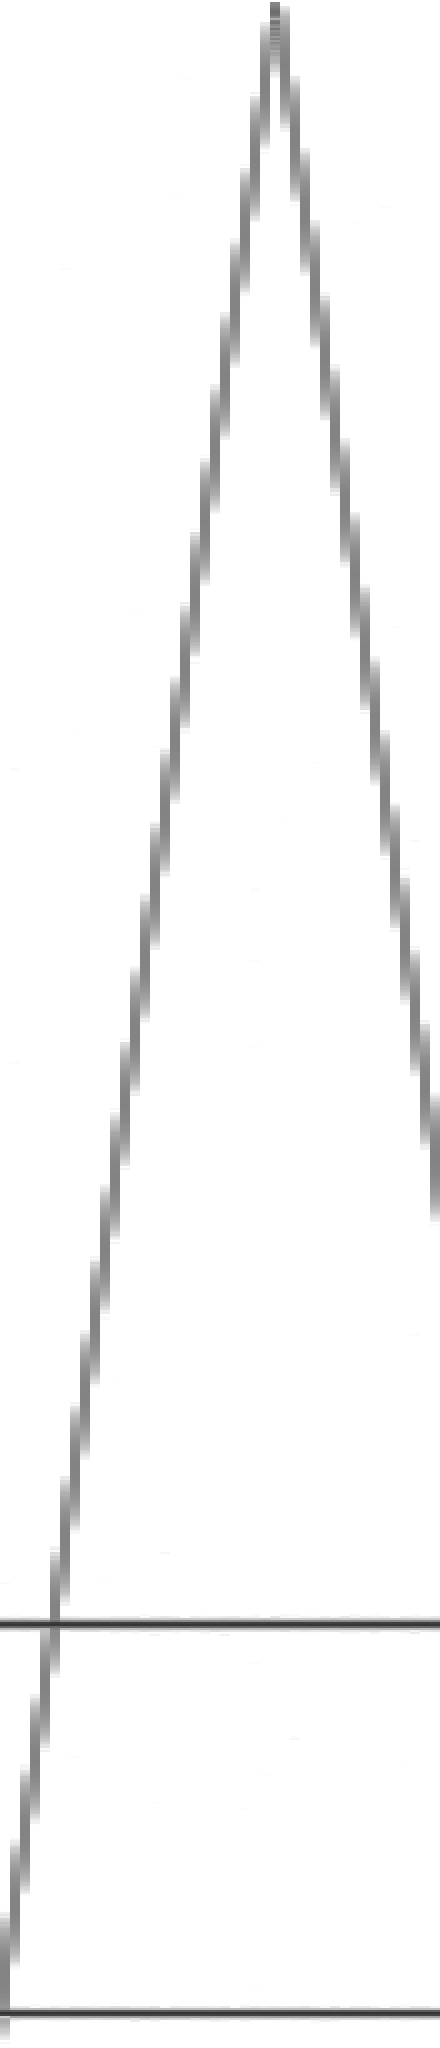
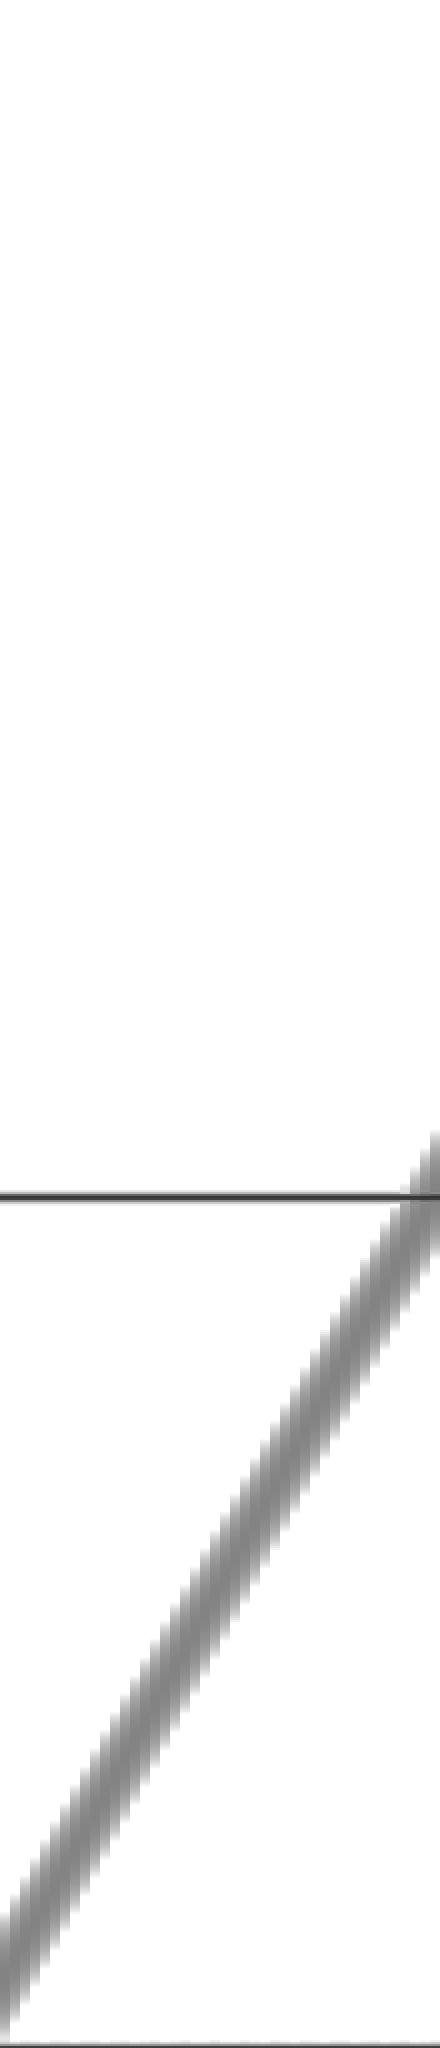
fix

Changed region(s): [[0.0, 0.0, 1.0, 1.0]]

diff --git a/src/main.rs b/src/main.rs
@@ -3,72 +3,81 @@ use piet_common::*;
 use realfft::RealFftPlanner;
 use rustfft::num_complex::{Complex, ComplexFloat};
 mod windows;
-use rand;
+// use rand;
 
 fn main() {
     let test_signal = generate_test_data();
     println!("Test signal generated with {} samples", test_signal.len());
 
-    let hann = windows::hann(2048);
-    let hann_dt = windows::timederivhann(2048);
-    let hann_t = windows::timeramphann(2048);
+    let length = 2048;
+    let step = 256;
+
+    let hann = windows::hann(length);
+    let hann_dt = windows::timederivhann(length as isize);
+    let hann_t = windows::timeramphann(length as isize);
 
     let mut piet = Device::new().unwrap();
-    let mut img = piet.bitmap_target(44 * 10, 2048, 1.0).unwrap();
+    let mut img = piet.bitmap_target(44 * 10, length, 1.0).unwrap();
     let mut piet = Device::new().unwrap();
-    let mut img2 = piet.bitmap_target(44 * 10, 2048, 1.0).unwrap();
+    let mut img2 = piet.bitmap_target(44 * 10, length, 1.0).unwrap();
     {
         let mut ctx = img.render_context();
-        let rect = Rect::new(0.0, 0.0, 44.0 * 10.0, 2048.0);
+        let rect = Rect::new(0.0, 0.0, 44.0 * 10.0, length as f64);
         ctx.fill(rect, &Color::rgba8(255, 255, 255, 255));
         let mut ctx = img2.render_context();
-        let rect = Rect::new(0.0, 0.0, 44.0 * 10.0, 2048.0);
+        let rect = Rect::new(0.0, 0.0, 44.0 * 10.0, length as f64);
         ctx.fill(rect, &Color::rgba8(255, 255, 255, 255));
     }
 
-    for i in 0..44 {
+    for i in 0..150 {
         let mut ctx = img.render_context();
         let mut ctx2 = img2.render_context();
-        let sub_signal = test_signal[i * 1024..i * 1024 + 2048].to_vec();
-        let mut hanned = vec![0.0; 2048];
-        let mut hanned_dt = vec![0.0; 2048];
-        let mut hanned_t = vec![0.0; 2048];
-        for j in 0..2048 {
+        let sub_signal = test_signal[i * step..i * step + length].to_vec();
+        let mut hanned = vec![0.0; length];
+        let mut hanned_dt = vec![0.0; length];
+        let mut hanned_t = vec![0.0; length];
+        for j in 0..length {
             hanned[j] = (sub_signal[j] * hann[j]) as f32;
             hanned_dt[j] = (sub_signal[j] * hann_dt[j]) as f32;
             hanned_t[j] = (sub_signal[j] * hann_t[j]) as f32;
         }
         let mut real_planner = RealFftPlanner::<f32>::new();
-        let r2c = real_planner.plan_fft_forward(2048);
+        let r2c = real_planner.plan_fft_forward(length);
         let mut spectrum = r2c.make_output_vec();
         r2c.process(&mut hanned, &mut spectrum);
         let fft_x = spectrum.clone();
-        let mag = fft_x.iter().map(|i| i.norm() / 2048.0).collect::<Vec<_>>();
+        let mag = fft_x
+            .iter()
+            .map(|i| i.norm() / length as f32)
+            .collect::<Vec<_>>();
         let magsqrd: Vec<_> = fft_x.iter().map(|i| i.norm_sqr()).collect();
         r2c.process(&mut hanned_dt, &mut spectrum).unwrap();
         let fft_xdt = spectrum.clone();
         r2c.process(&mut hanned_t, &mut spectrum).unwrap();
         let fft_xt = spectrum.clone();
-        for j in 0..1025 {
+        for j in 0..(length / 2 + 1) {
             let rect = Rect::new(
                 i as f64 * 10.0,
-                (1025 - j) as f64 * 2.0,
+                ((length / 2 + 1) - j) as f64 * 2.0,
                 i as f64 * 10.0 + 10.0,
-                (1025 - j) as f64 * 2.0 + 2.0,
+                ((length / 2 + 1) - j) as f64 * 2.0 + 2.0,
             );
             let c = ((mag[j].log10() * 20.0 + 60.0) * 255.0 / 60.0) as u8;
             ctx2.fill(rect, &Color::rgba8(0, 0, 0, c));
             if magsqrd[j] > 0.0 {
-                let freq_base = j as f32 * 24000.0 / 1025.0;
+                let freq_base = j as f32 * 24000.0 / (length / 2 + 1) as f32;
                 let fc_fix = (-(fft_xdt[j] * fft_x[j].conj()).im() / magsqrd[j]);
                 let fc_temp = fc_fix + freq_base;
-                let tc_fix = (fft_xt[i] * fft_x[i].conj()).re() / magsqrd[i];
-                let tc_temp = tc_fix + i as f32 * 1024.0 / 48000.0;
+                let tc_fix = (fft_xt[j] * fft_x[j].conj()).re() / magsqrd[j];
+                let tc_temp = tc_fix + i as f32 * (step as f32 / 2.0) / 48000.0;
                 let db = mag[j].log10() * 20.0;
-                let x = 10.0 * tc_temp as f64 / 0.02133333333333333;
-                let y = (1.0 - fc_temp as f64 / 24000.0) * 2048.0;
+                let x = 20.0 * tc_temp as f64 / (0.02133333333333333);
+                // log
+                let y = 0.2991878257 * (fc_temp.log10() as f64 - 1.0) * (length as f64);
+                // linear
+                // let y = (1.0 - fc_temp as f64 / 24000.0) * 2048.0;
                 let c = ((db + 60.0) * 255.0 / 60.0) as u8;
-                let rect = Rect::new(x, y, x + 5.0, y + 1.0);
+                let rect = Rect::new(x, y, x + 1.0, y + 1.0);
                 ctx.fill(rect, &Color::rgba8(0, 0, 0, c));
             }
         }
@@ -80,8 +89,8 @@ fn main() {
 fn generate_test_data() -> Vec<f64> {
     let fs = 48000;
     let duration = 1.0;
-    let sin_1_freq = 440.0;
-    let sin_2_freq = 5000.0;
+    let sin_1_freq = 30.0;
+    let sin_2_freq = 10000.0;
 
     let chirp_freq_start = 20.0;
     let chirp_freq_end = 20000.0;
@@ -100,8 +109,8 @@ fn generate_test_data() -> Vec<f64> {
                 * (chirp_freq_start + (chirp_freq_end - chirp_freq_start) * t / chirp_duration)
                 * (t + chirp_phase))
                 .sin();
-        let noise_val = rand::random::<f64>() * 0.1;
-        data.push(sin_1_val + sin_2_val + chirp_val + noise_val);
+        let noise_val = rand::random::<f64>() * 0.05;
+        data.push(sin_1_val + sin_2_val + chirp_val);
         // data.push(sin_1_val + sin_2_val);
     }
     data
